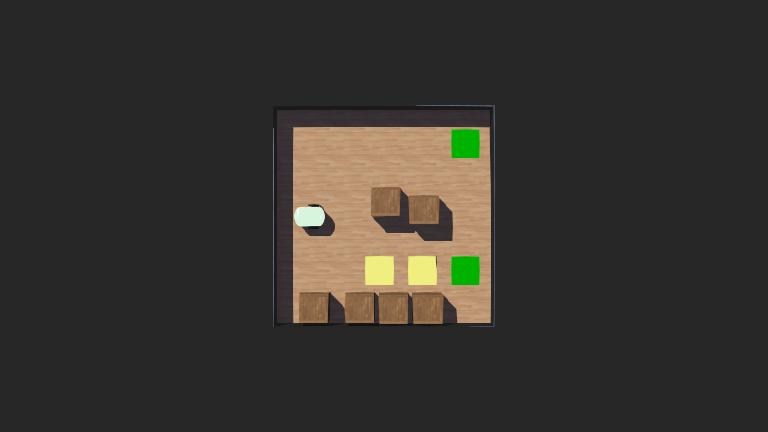
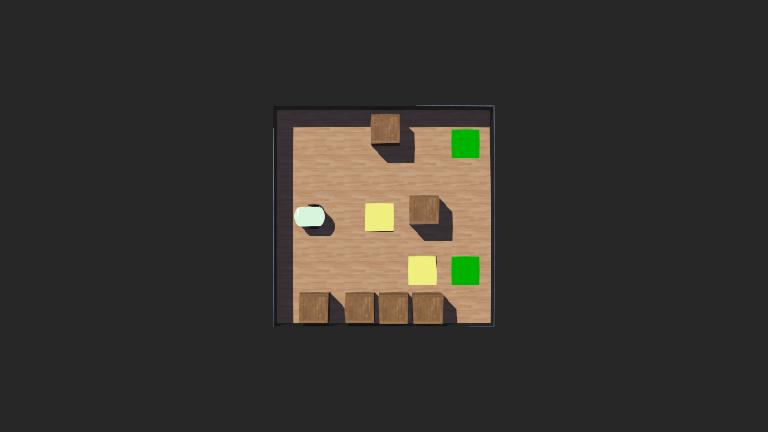
simple and working checkpoints

Changed region(s): [[0.4688, 0.2407, 0.5625, 0.3912], [0.4688, 0.4213, 0.5625, 0.5417], [0.4688, 0.5718, 0.5312, 0.662]]

diff --git a/myenv/myenv.py b/myenv/myenv.py
@@ -27,16 +27,16 @@ class WheeledRobotEnv(Supervisor, gym.Env):
         grid_size: int = 3,
         ds_names: list[str] = DS_NAMES,
         verbose: bool = True,
-        checkpoints=None,
+        checkpoints=[],
     ):
         super().__init__()
 
         self.timestep = int(self.getBasicTimeStep())
         self.goal = goal
-        # self.checkpoints = checkpoints
         self.checkpoints = [
             {"coordinates": coord, "passed": False} for coord in checkpoints
         ]
+        print(self.checkpoints)
         self.time_limit = TIME_LIMIT
 
         ### SPACES ###
@@ -281,21 +281,22 @@ class WheeledRobotEnv(Supervisor, gym.Env):
         is_collision, collision_side = self._detect_collision()
         # Reached checkpoint
         distance_to_nearest_checkpiont = {"index": -1, "value": np.inf}
+        # print(self.checkpoints)
         if len(self.checkpoints) > 0:
             for i, coord in enumerate(self.checkpoints):
-                if coord["passed"] != False and (np.linalg.norm(coord["coordinates"][:2] - robot_position[:2]) < distance_to_nearest_checkpiont["value"]):  # type: ignore
+                if coord["passed"] == False and (np.linalg.norm(coord["coordinates"][:2] - robot_position[:2]) < distance_to_nearest_checkpiont["value"]):  # type: ignore
                     distance_to_nearest_checkpiont["value"] = np.linalg.norm(
                         coord["coordinates"][:2] - robot_position[:2]
                     )
                     distance_to_nearest_checkpiont["index"] = i
 
-            self.checkpoints[distance_to_nearest_checkpiont["index"]]["passed"] = True
+            # distance_to_nearest_checkpiont["index"]]["passed"] = True
 
         return (
             is_collision,
             collision_side,
             distance_to_nearest_goal,
-            distance_to_nearest_checkpiont["value"],
+            distance_to_nearest_checkpiont,
         )
 
     ############### ENVIRONMENT SPECIFIC #####################
@@ -341,7 +342,7 @@ class WheeledRobotEnv(Supervisor, gym.Env):
         is_collision: bool,
         distance_to_goal: float,
         collision_side: str,
-        distance_to_nearest_checkpiont: float,
+        distance_to_nearest_checkpiont: dict[str, Any],
     ):
         if is_collision:
             self.num_collisions += 1
@@ -350,7 +351,8 @@ class WheeledRobotEnv(Supervisor, gym.Env):
                 return -8, True
             self.verbose and print(f"{collision_side} collision")
             return -10, True
-        elif distance_to_nearest_checkpiont < 0.1:
+        elif distance_to_nearest_checkpiont["value"] < 0.35:
+            self.checkpoints[distance_to_nearest_checkpiont["index"]]["passed"] = True
             self.verbose and print(f"Checkpoints {self.checkpoints}")
             return 1, False
         elif distance_to_goal < 0.35:
@@ -391,7 +393,7 @@ class WheeledRobotEnv(Supervisor, gym.Env):
             distance_to_nearest_checkpiont,
         ) = self.advanced_step(action)
 
-        if distance_to_nearest_checkpiont is None:
+        if distance_to_nearest_checkpiont["index"] == -1:
             reward, done = self.basic_reward(
                 is_collision, distance_to_goal, collision_side
             )

diff --git a/src/simulation/controllers/simple/simple.py b/src/simulation/controllers/simple/simple.py
@@ -6,7 +6,7 @@ import numpy as np
 MODEL_MODE = "test"
 
 # easy / medium / hard
-ENV_MODE = "step-2"
+ENV_MODE = "step-4-v0"
 
 # front / front_back / sides
 ROBOT_SENSORS = "front"
@@ -22,11 +22,16 @@ class Simple:
 
 def main():
 
-    goal, wooden_boxes_data, grid_size, robot_sensors = get_env_data_from_config(
-        ENV_MODE, MODEL_MODE.split("_")[0], ROBOT_SENSORS
+    goal, wooden_boxes_data, grid_size, robot_sensors, checkpoints = (
+        get_env_data_from_config(ENV_MODE, MODEL_MODE.split("_")[0], ROBOT_SENSORS)
     )
     env = WheeledRobotEnv(
-        goal, wooden_boxes_data, grid_size, robot_sensors, verbose=False
+        goal,
+        wooden_boxes_data,
+        grid_size,
+        robot_sensors,
+        verbose=True,
+        checkpoints=checkpoints,
     )
     check_env(env, warn=True)
 

diff --git a/src/simulation/controllers/rl/rl.py b/src/simulation/controllers/rl/rl.py
@@ -22,8 +22,8 @@ next_step = create_step_name(c + 1, v)
 total_steps = states["total_steps"]
 
 
-MODE = "single"  # single / multiple
-MODEL_MODE = "test"  # train / train_save / test
+MODE = "multiple"  # single / multiple
+MODEL_MODE = "train_save"  # train / train_save / test
 
 IDENTIFIER = "orange"
 
